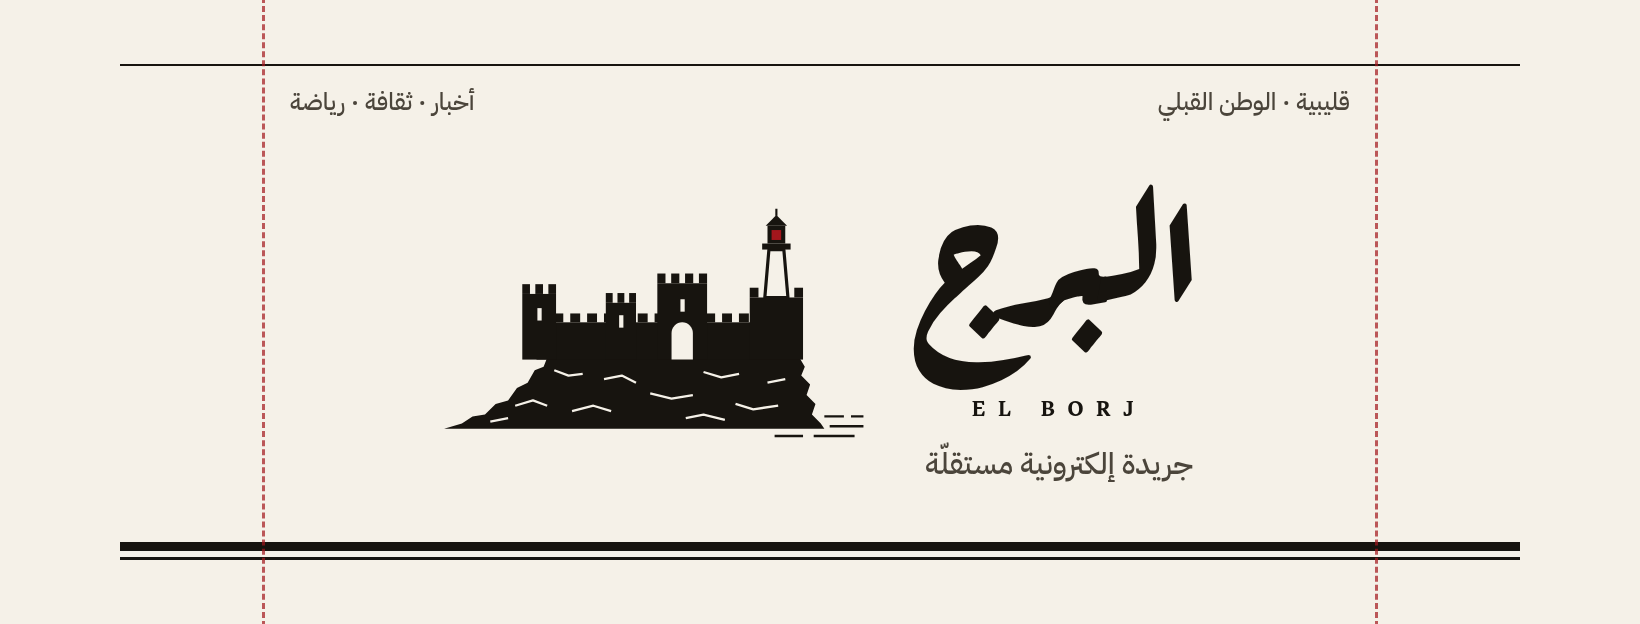
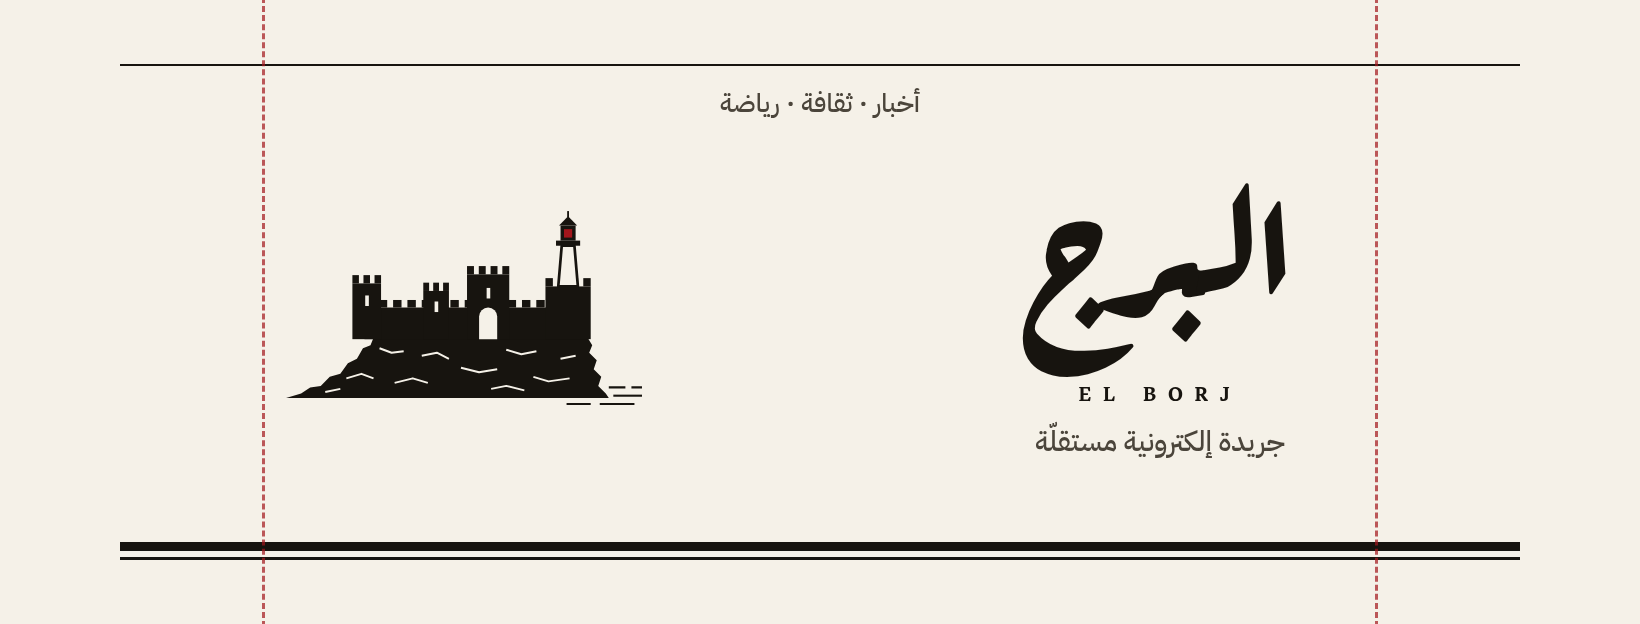
Facebook cover: leave the centre free for the profile picture, drop the Kelibia line
Claude-Session: https://claude.ai/code/session_01Cp8vVbHm68MMo87WFYNfPZ

diff --git a/design/facebook/cover.html b/design/facebook/cover.html
@@ -1,23 +1,23 @@
 <!doctype html><html dir="rtl" lang="ar"><head><meta charset="utf-8">
 <link href="https://fonts.googleapis.com/css2?family=Aref+Ruqaa:wght@700&family=Markazi+Text:wght@600&family=IBM+Plex+Sans+Arabic:wght@500&display=block" rel="stylesheet">
 <style>
-html,body{margin:0;width:1640px;height:624px;background:#F5F1E8;color:#17140F;overflow:hidden}
+/* Facebook's page layout puts the profile picture over the middle of the cover's lower half:
+   the fort sits on one side, the name on the other, the centre bottom stays empty. */
+html,body{margin:0;width:1640px;height:624px;background:#F5F1E8;color:#17140F;overflow:hidden;position:relative}
 .top{position:absolute;top:64px;left:120px;right:120px;border-top:2px solid #17140F}
 .bottom{position:absolute;bottom:64px;left:120px;right:120px;border-top:9px solid #17140F;border-bottom:3px solid #17140F;height:6px}
-.lock{position:absolute;inset:0;padding-top:10px;display:flex;align-items:center;justify-content:center;gap:48px}
-.lock img{width:430px}
-.words{text-align:center}
-.name{font-family:'Aref Ruqaa';font-size:180px;line-height:1}
-.latin{font-family:'Markazi Text';letter-spacing:.42em;font-size:30px;margin-top:62px}
-.tag{font-family:'IBM Plex Sans Arabic';font-size:30px;color:#4B453B;margin-top:14px}
-.ear{position:absolute;top:84px;font-family:'IBM Plex Sans Arabic';font-size:24px;color:#4B453B}
-.ear.r{right:290px}.ear.l{left:290px}
+.kick{position:absolute;top:84px;left:0;right:0;text-align:center;font-family:'IBM Plex Sans Arabic';font-size:26px;color:#4B453B}
+.fort{position:absolute;left:280px;top:196px;width:365px}
+.words{position:absolute;right:280px;top:150px;width:400px;text-align:center}
+.name{font-family:'Aref Ruqaa';font-size:170px;line-height:1}
+.latin{font-family:'Markazi Text';letter-spacing:.42em;font-size:28px;margin-top:58px}
+.tag{font-family:'IBM Plex Sans Arabic';font-size:28px;color:#4B453B;margin-top:10px}
 .guide{position:absolute;top:0;bottom:0;left:265px;right:265px;outline:3px dashed rgba(163,22,28,.7)}
 </style></head><body>
 <div class="top"></div>
-<div class="ear r">قليبية · الوطن القبلي</div>
-<div class="ear l">أخبار · ثقافة · رياضة</div>
-<div class="lock"><div class="words"><div class="name">البرج</div><div class="latin">EL BORJ</div><div class="tag">جريدة إلكترونية مستقلّة</div></div><img src="borj-mark.svg"></div>
+<div class="kick">أخبار · ثقافة · رياضة</div>
+<img class="fort" src="borj-mark.svg">
+<div class="words"><div class="name">البرج</div><div class="latin">EL BORJ</div><div class="tag">جريدة إلكترونية مستقلّة</div></div>
 <div class="bottom"></div>
 <div class="guide" id="g"></div>
 </body></html>

diff --git a/design/facebook/fb-preview.html b/design/facebook/fb-preview.html
@@ -1,0 +1,7 @@
+<!doctype html><html><head><meta charset="utf-8"><style>
+/* Approximation of Facebook's desktop page header (measured on Firas's screenshot):
+   cover 2.7:1, profile circle 18.5% of the width, centred, top at 54% of the cover height. */
+body{margin:0;background:#242526;width:1000px;height:520px;position:relative}
+.cover{position:absolute;left:30px;top:20px;width:940px;height:348px;background:url(cover.png) center/cover;border-radius:8px}
+.pp{position:absolute;left:calc(30px + 470px - 87px);top:calc(20px + 188px);width:174px;height:174px;border-radius:50%;background:url(profile.png) center/cover;outline:4px solid #242526}
+</style></head><body><div class="cover"></div><div class="pp"></div></body></html>
